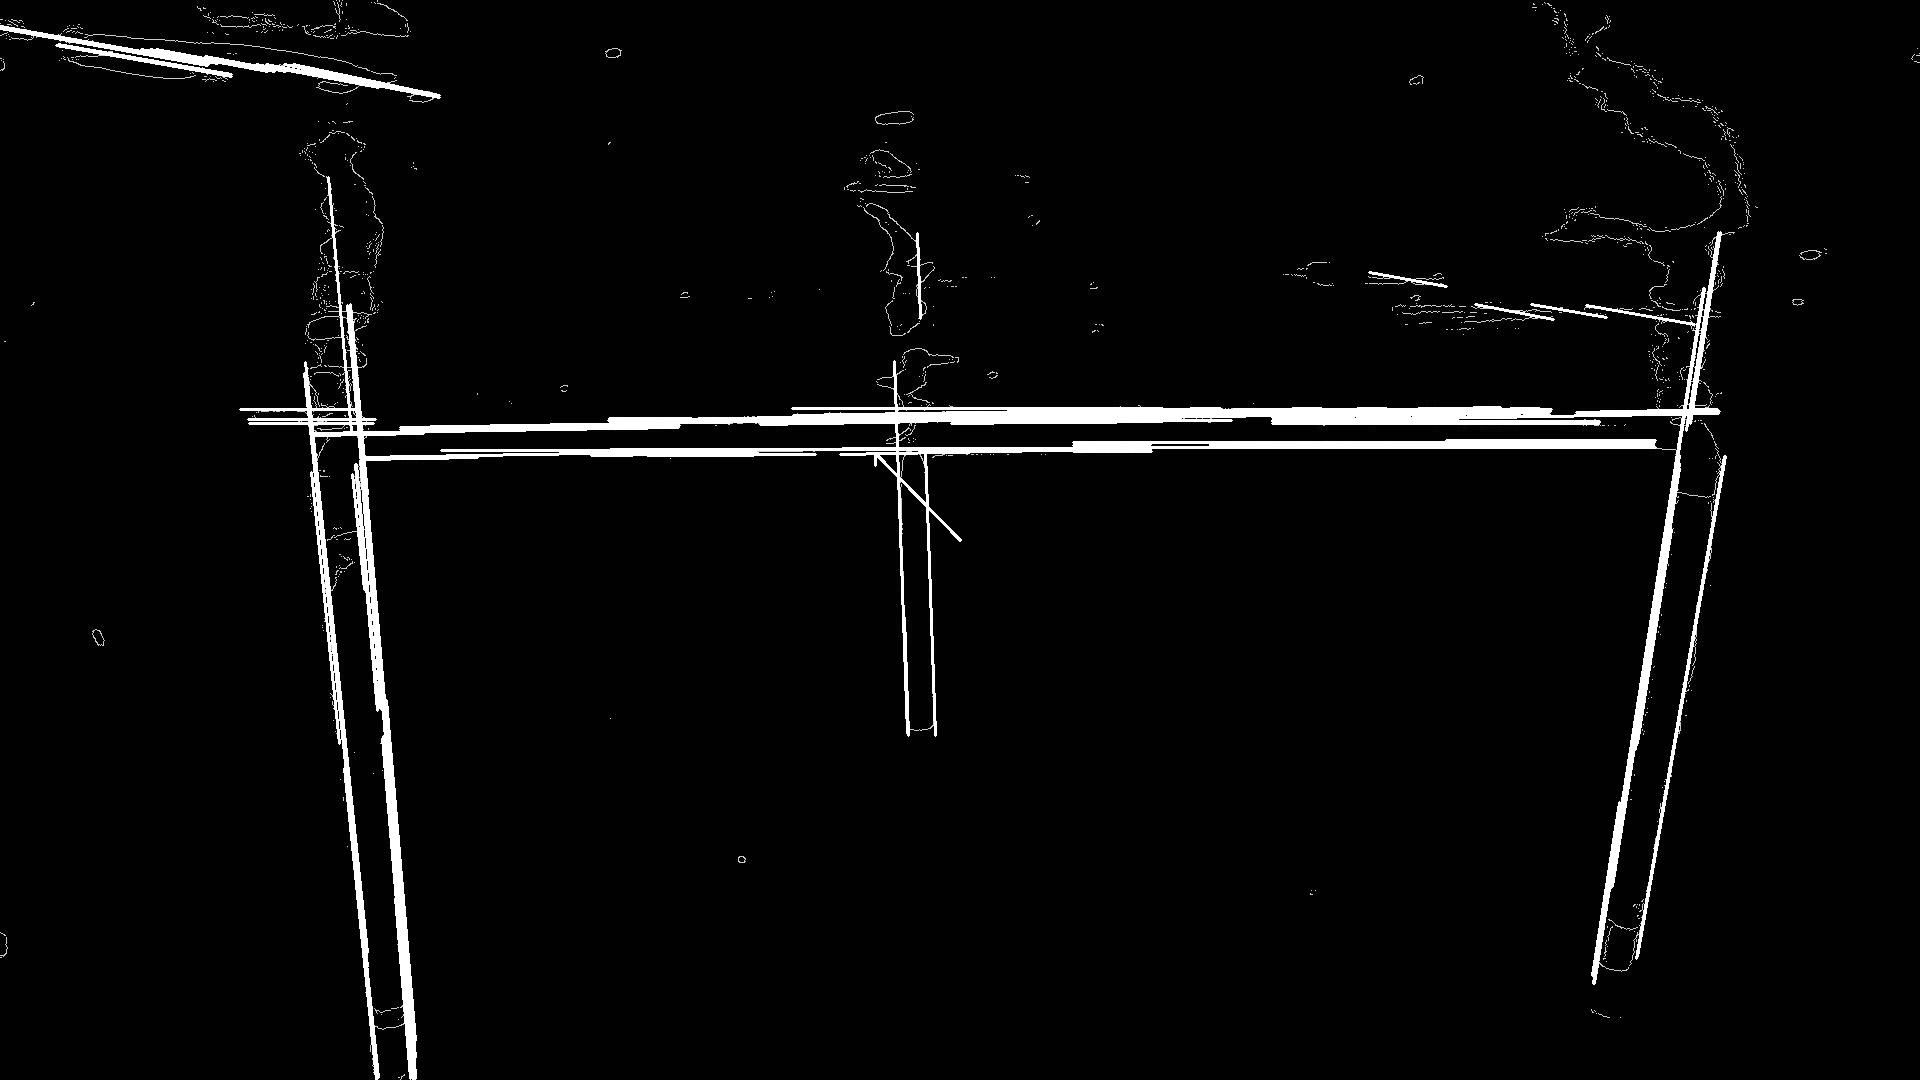
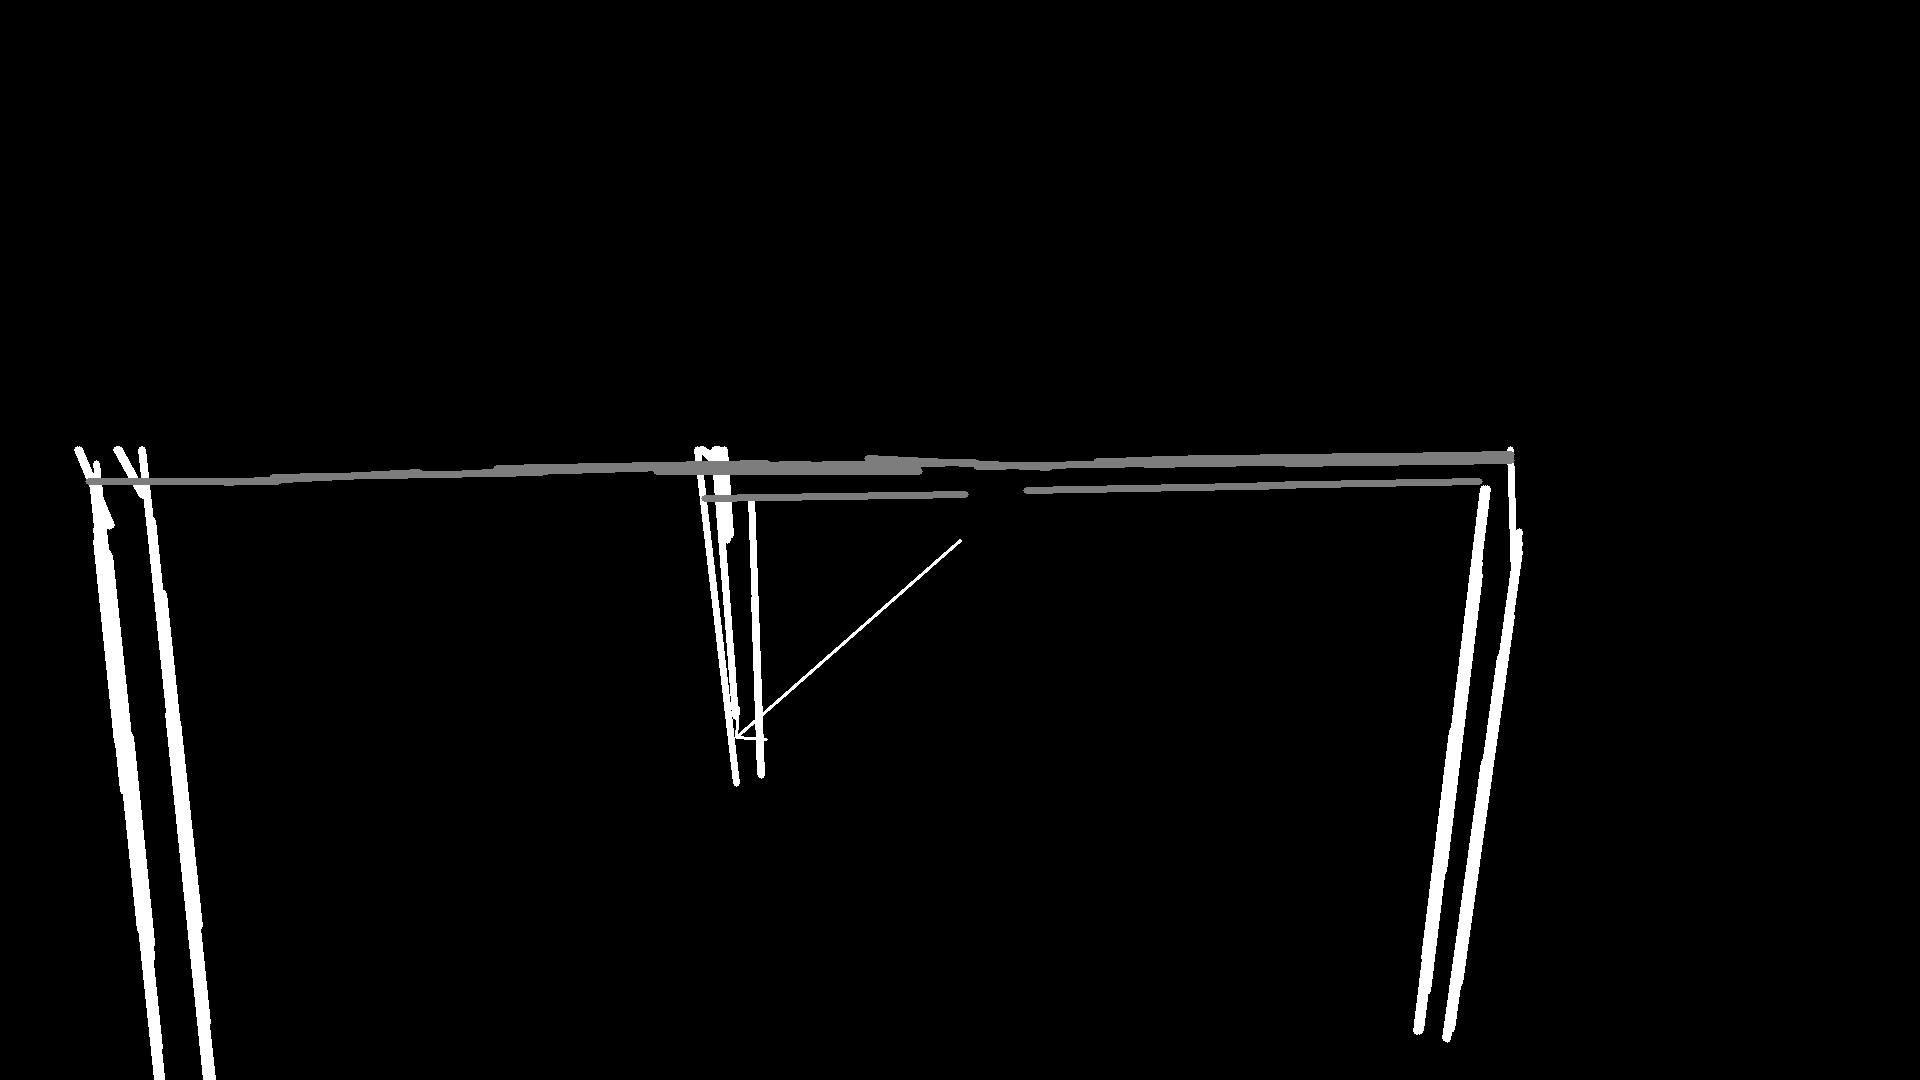
Improved filtering, and centering technique

diff --git a/line_segment_detect.py b/line_segment_detect.py
@@ -17,6 +17,7 @@ class HoughBundler:
 
     def filter_line_segments(self, line_segments):
         horizontal_list = list()
+        vertical_list = list()
         angle_threshold = 175
         lines_list = list(line_segments)
         for index, line_seg in enumerate(lines_list):
@@ -32,84 +33,108 @@ class HoughBundler:
                     #print(math.degrees(angle))
                     if( (math.radians(angle_threshold) <= angle and angle <= math.radians(180) ) or ( math.radians(-180) <= angle and angle <= math.radians(-angle_threshold) )  ) :
                         horizontal_list.append(line_seg)
+                    else:
+                        vertical_list.append(line_seg)
 
         #print(bar_height)
 
-        return np.asarray(horizontal_list)
+        return np.asarray(horizontal_list), np.asarray(vertical_list)
 
     def average_height(self, lines):
         sum = 0;
         for line in lines:
             sum += line[0][1] # y1
             sum += line[0][3] # y2
+        if(len(lines) == 0):
+            return 0
         return int(sum / (len(lines)*2))
 
-    def cut_top(self, line_segments):
+    def cut_top(self, horizontal_list, vertical_list):
         global mid
         slack = 20
-        horizontal_list = self.filter_line_segments(line_segments)
-        new_list = []
+        new_vertical_list = []
         bar_height = self.average_height(horizontal_list) - slack
         mid = bar_height
-        for line_seg in line_segments:
+        for line_seg in vertical_list:
             for x1, y1, x2, y2 in line_seg:
                 if y1 < bar_height and y2 < bar_height:
                     print("too high! delete")
                 elif y1 < bar_height:
                     #print("trim y1!")
-                    new_list.append(np.array([[x1, bar_height, x2, y2]]))
+                    new_vertical_list.append(np.array([[x1, bar_height, x2, y2]]))
                 elif y2 < bar_height:
                     #print("trim y2!")
-                    new_list.append(np.array([[x1, y1, x2, bar_height]]))
+                    new_vertical_list.append(np.array([[x1, y1, x2, bar_height]]))
                 else:
                     #print("Keep!")
-                    new_list.append(np.array([[x1, y1, x2, y2]]))
-        return new_list
+                    new_vertical_list.append(np.array([[x1, y1, x2, y2]]))
+        return new_vertical_list
 
     # From the DeepPiCar tutorial:
     def line_segment_detect(self, edges):
         # Need to tune parameters through trial-and-error
         rho = 1  # distance precision in pixel, i.e. 1 pixel
         angle = np.pi / 180  # angular precision in radian, i.e. 1 degree
-        min_threshold = 200  # minimal of votes
+        min_threshold = 175  # minimal of votes
         line_segments = cv2.HoughLinesP(edges, rho, angle, min_threshold, 
-                                        np.array([]), minLineLength=75, maxLineGap=20)
+                                        np.array([]), minLineLength=175, maxLineGap=20)
         #print(edges.shape)
         #print(line_segments)
 
-        return self.cut_top(line_segments)
+        return line_segments
         #return line_segments
 
     # A testing function to draw the lines output by process_lines onto frame
-    def display_lines(self, frame, lines, line_width=2):
+    def display_lines(self, frame, horizontal_list, vertical_lines, line_width=5):
         global mid
         line_image = np.zeros_like(frame)
-        if lines is not None:
-            for line in lines:
+        line_blur_image = np.zeros_like(frame)
+
+        # Draw vertica lines first only
+        if vertical_lines is not None:
+            for line in vertical_lines:
                 for x1, y1, x2, y2 in line:
                     cv2.line(line_image, (x1, y1), (x2, y2), 255, line_width)
-        cv2.imshow("line_segs", line_image)
+        
         #cv2.waitKey(0)
-        line_image = cv2.addWeighted(frame, 0.8, line_image, 1, 1)
+        #line_image = cv2.addWeighted(frame, 0.8, line_image, 1, 1)
+        blurred_image = cv2.blur(line_image,(15,15),0)
+        cv2.imshow("blur cut lines", blurred_image)
+
+        if horizontal_list is not None:
+            for line in horizontal_list:
+                for x1, y1, x2, y2 in line:
+                    cv2.line(line_image, (x1, y1), (x2, y2), 125, line_width)
+
+        cv2.imshow("normal cut lines", line_image)
+        
+        blur_lines = self.line_segment_detect(blurred_image)
+        
+        #cv2.imshow("blur line", line_image)
         #line_image = cv2.circle(line_image, (960, mid), 5, 255, thickness=5)
         #line_image = cv2.circle(line_image, (960, mid - 20), 5, 125, thickness=5)
-        after = centering.draw_heading(line_image, lines)
-        cv2.imshow("gate lines", after)
-        #after_img = Image.fromarray(after)
-        #after_img.save("edge_frame%d.jpg")
+        
+        after = centering.draw_heading(line_image, blur_lines)
+        cv2.imshow("result", after)
+        #cv2.imshow("gate lines", after)
+        
+        after_img = Image.fromarray(after)
+        after_img.save("edge_frame%d.jpg")
 
         cv2.waitKey(0)
 
 
 def main():
     HB = HoughBundler()
-    for value in range(90,105):
+    for value in range(0,105):
         img = cv2.imread("data/edge_frame%d.jpg"%value, cv2.CV_8UC1)
         line_segs = HB.line_segment_detect(img)
+        horizontal_list, vertical_list = HB.filter_line_segments(line_segs)
+        cut_vertical_list = HB.cut_top(horizontal_list, vertical_list)
         
 
         #merged_lines = HB.process_lines(line_segs)
-        HB.display_lines(img, line_segs)
+        HB.display_lines(img, horizontal_list, cut_vertical_list)
 
         
 

diff --git a/frame_centering.py b/frame_centering.py
@@ -1,37 +1,43 @@
 # MSubs 2020
 import numpy as np
 import cv2
+from math import sqrt
 
 __FRAME_CENTER = (960,540) # width x height = x, y
 
 # Takes in lines and outputs their mid-points
 def calc_mid_points(lines):
 	mid_points = list()
+	lengths = list()
 	for line in lines:
 		for x1, y1, x2, y2 in line:
 			mid_points.append(((x1 + x2) / 2, (y1 + y2) / 2))
-	return mid_points
+			lengths.append(sqrt((x1 - x2)**2 + (y1-y2)**2))
+	return mid_points, lengths
 
 # Given the coords of several points, find their center
-def calc_points_center(points):
+def calc_points_center(points, lengths):
 	x_sum = 0
 	y_sum = 0
-	for point in points:
-		x_sum += point[0]
-		y_sum += point[1]
-	return (int(x_sum / len(points)), int(y_sum / len(points)))
+	total_length = 0
+	for index, point in enumerate(points):
+		length = lengths[index]
+		x_sum += point[0] * length
+		y_sum += point[1] * length
+		total_length += length
+	return (int(x_sum / total_length), int(y_sum / total_length))
 
 # Finds the heading (angle and pixel distance) of the gate center from the frame center
 def calc_heading(lines):
-	mid_points = calc_mid_points(lines)
-	gate_center = calc_points_center(mid_points)
+	mid_points, lengths = calc_mid_points(lines)
+	gate_center = calc_points_center(mid_points, lengths)
 	# Basically AB = OB - OA
 	return (gate_center[0] - __FRAME_CENTER[0], gate_center[1] - __FRAME_CENTER[1])
 
 # Testing function to display the heading arrow on the frame.
 def draw_heading(frame, lines):
-	mid_points = calc_mid_points(lines)
-	gate_center = calc_points_center(mid_points)
+	mid_points, lengths = calc_mid_points(lines)
+	gate_center = calc_points_center(mid_points, lengths)
 	
 	cv2.arrowedLine(frame, __FRAME_CENTER, gate_center, 255 , 2)
 	return frame

diff --git a/robosub.py b/robosub.py
@@ -47,15 +47,29 @@ def video_to_photo():
 
 def edge_detect():
 
-	for value in range(90,105):
+	for value in range(0, 105):
 		img = cv2.imread("data/frame%d.jpg"%value)
 		print(type(img))
-		img = cv2.GaussianBlur(img,(15,15), 0)
+		
+
+		
+		median_blurred = cv2.medianBlur(img, 15)
+		#gaussian_blurred = cv2.GaussianBlur(img,(15,15), 0)
+		#combine_blurred = cv2.GaussianBlur(median_blurred, (5,5), 0 )
+		combine_blurred = cv2.GaussianBlur(median_blurred, (5,5), 0 )
+
 		print((img).shape)
 
-		edges = cv2.Canny(img,20,20)
+		combine_blurred = cv2.Canny(combine_blurred, 22, 22)
+		cv2.imshow("combined blur", combine_blurred)
+		cv2.imshow("combined blur2", combine_blurred)
+
+		cv2.waitKey(0)
+
+		#edges = cv2.Canny(img,20,20)
 		#scipy.misc.imsave("data/edge_frame%d.jpg"%value, edges)
-		img = Image.fromarray(edges)
+		
+		img = Image.fromarray(combine_blurred)
 		img.save("data/edge_frame%d.jpg"%value)
 
 		#plt.subplot(121),plt.imshow(img,cmap = 'hsv')
